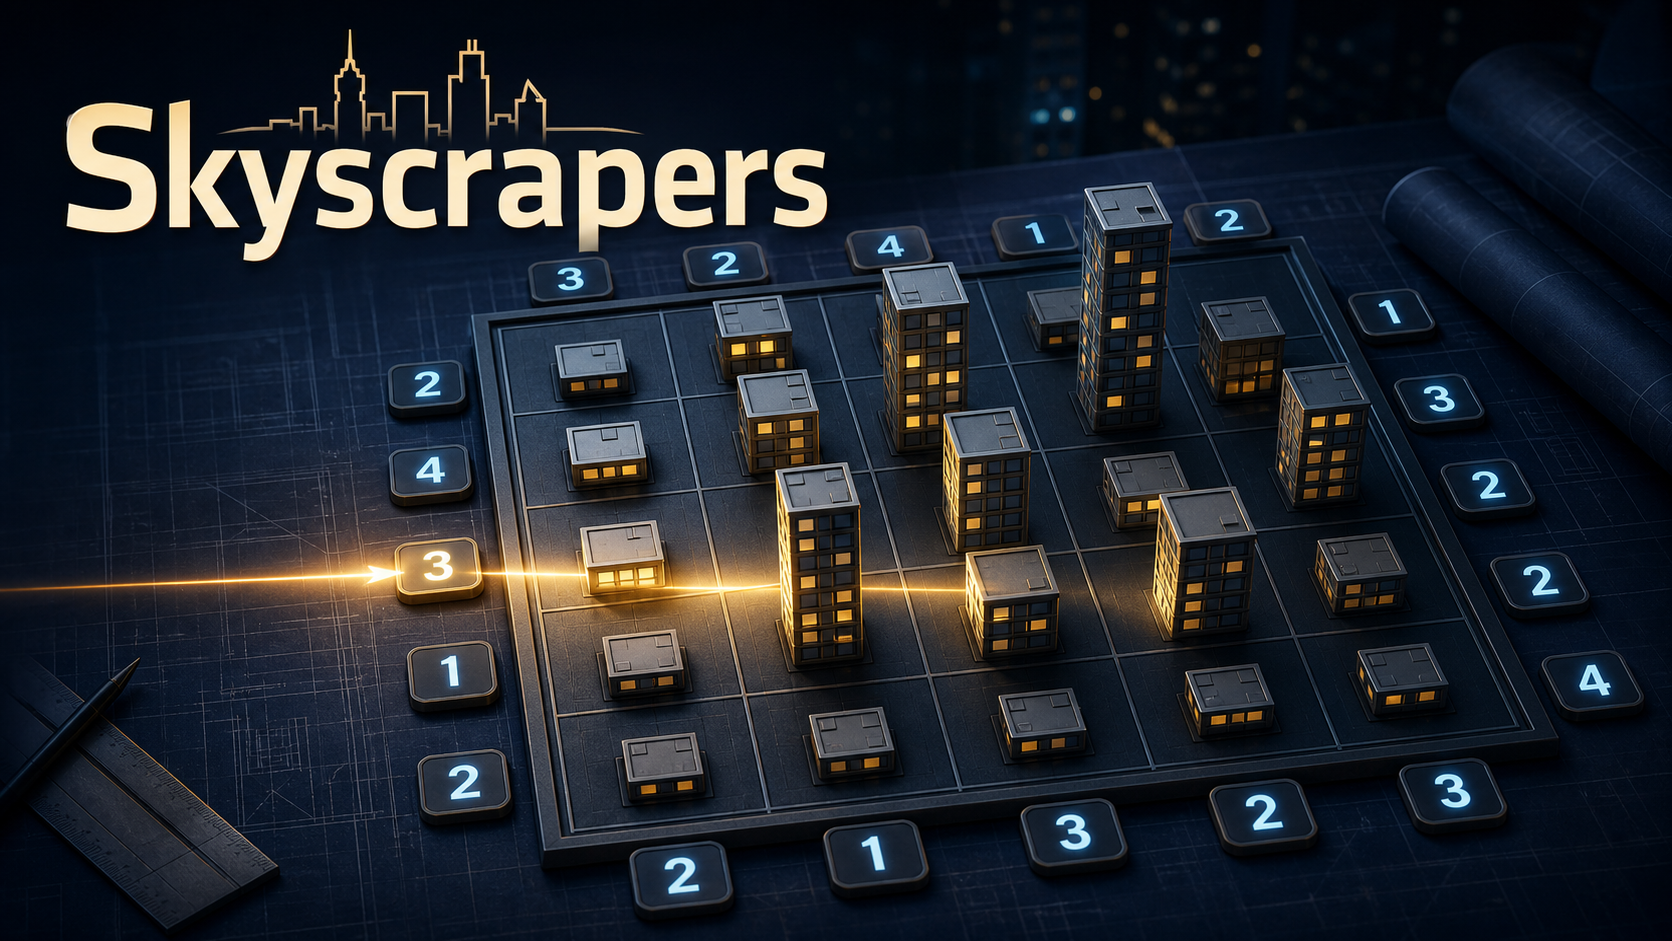
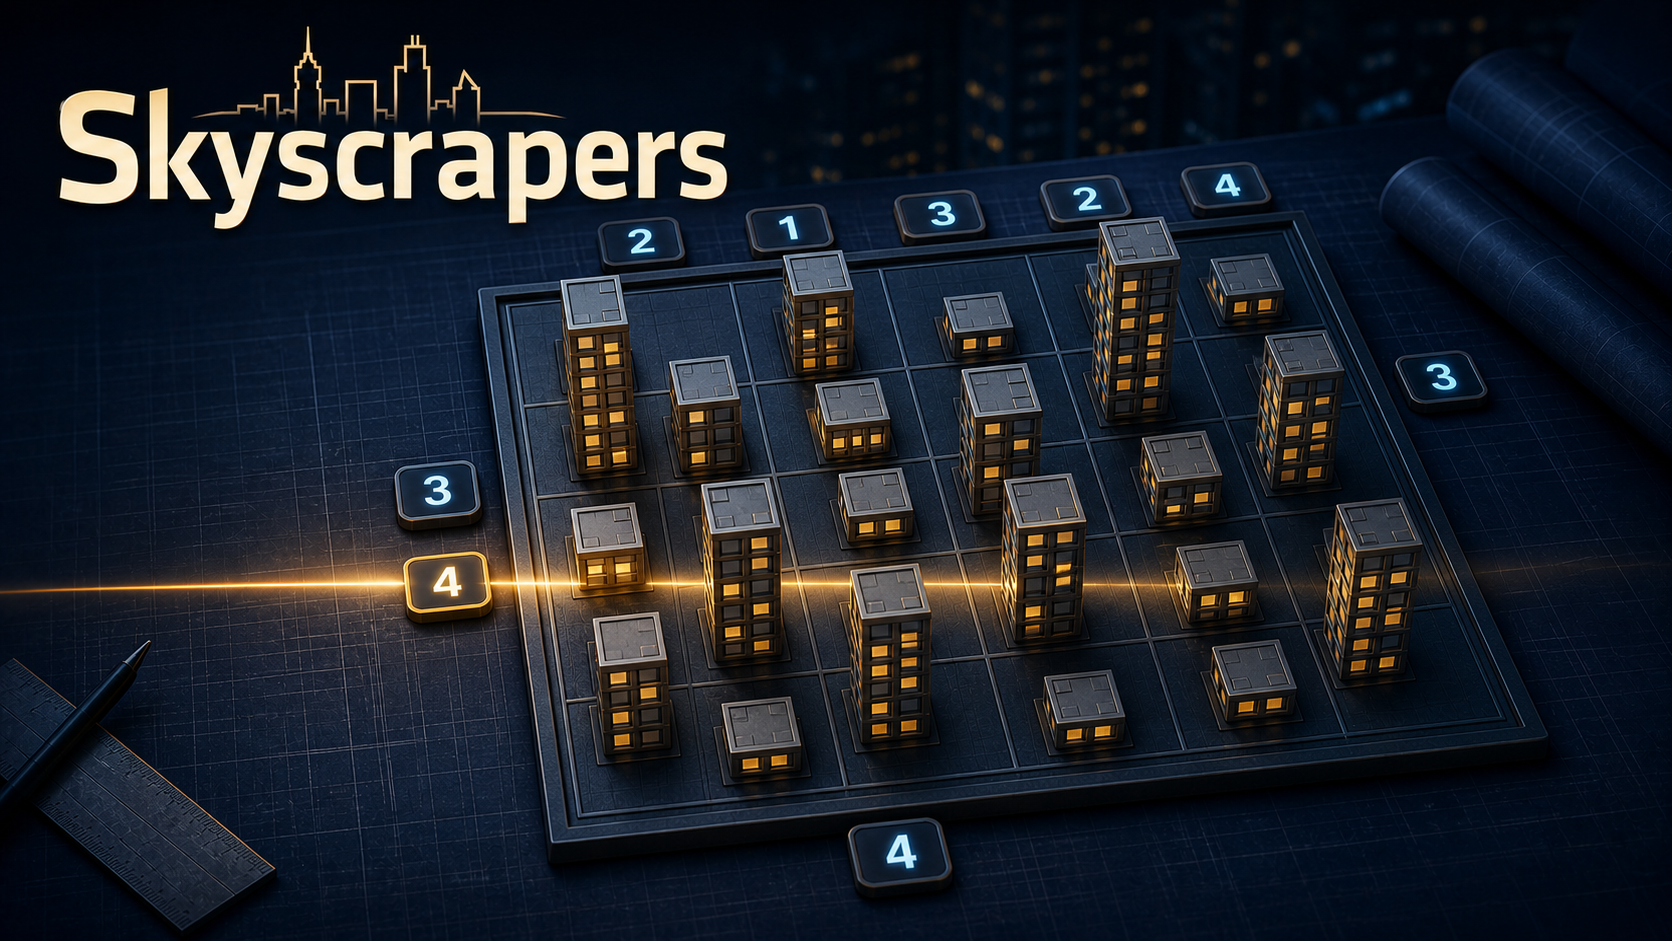
Replace the Skyscrapers key art
Owner supplied a second version. Same spec: 1200x675, cwebp -q 82, 88KB,
full-res original replacing the archived one in _sources.

⚠ This one DOES bump the shared .webp?v version, 3 to 4, which the last
piece deliberately did not. That string exists precisely for this case:
without it anyone holding the previous skyscrapers.webp keeps seeing the
old art at the unchanged URL. The cost is that all 31 pieces share the one
string, so they all re-fetch — unavoidable, and the right trade against
serving stale art.

diff --git a/assets/main.js b/assets/main.js
@@ -1299,7 +1299,7 @@ function renderHomeHero() {
       prev.removeAttribute("data-slug");
       prev.classList.add("card__preview--art");
       prev.style.background =
-        '#07070b url("/assets/featured/' + t.slug + '.webp?v=3") center / cover no-repeat';
+        '#07070b url("/assets/featured/' + t.slug + '.webp?v=4") center / cover no-repeat';
       // the art carries the toy's own logo, so the heading would just repeat it:
       // keep it for screen readers only and let the panel re-space itself
       sec.classList.add("home-featured--art");

diff --git a/all-toys/audio/index.html b/all-toys/audio/index.html
@@ -295,7 +295,7 @@
       </div>
     </footer>
 
-    <script src="../../assets/main.js?v=110" defer></script>
+    <script src="../../assets/main.js?v=111" defer></script>
     <script src="../../assets/theme.js?v=8" defer></script>
     <script src="../../assets/tickets.js?v=24" defer></script>
     <script src="../../assets/prizes.js?v=1" defer></script>

diff --git a/all-toys/game/index.html b/all-toys/game/index.html
@@ -295,7 +295,7 @@
       </div>
     </footer>
 
-    <script src="../../assets/main.js?v=110" defer></script>
+    <script src="../../assets/main.js?v=111" defer></script>
     <script src="../../assets/theme.js?v=8" defer></script>
     <script src="../../assets/tickets.js?v=24" defer></script>
     <script src="../../assets/prizes.js?v=1" defer></script>

diff --git a/all-toys/simulation/index.html b/all-toys/simulation/index.html
@@ -295,7 +295,7 @@
       </div>
     </footer>
 
-    <script src="../../assets/main.js?v=110" defer></script>
+    <script src="../../assets/main.js?v=111" defer></script>
     <script src="../../assets/theme.js?v=8" defer></script>
     <script src="../../assets/tickets.js?v=24" defer></script>
     <script src="../../assets/prizes.js?v=1" defer></script>

diff --git a/all-toys/utility/index.html b/all-toys/utility/index.html
@@ -295,7 +295,7 @@
       </div>
     </footer>
 
-    <script src="../../assets/main.js?v=110" defer></script>
+    <script src="../../assets/main.js?v=111" defer></script>
     <script src="../../assets/theme.js?v=8" defer></script>
     <script src="../../assets/tickets.js?v=24" defer></script>
     <script src="../../assets/prizes.js?v=1" defer></script>

diff --git a/all-toys/visual/index.html b/all-toys/visual/index.html
@@ -295,7 +295,7 @@
       </div>
     </footer>
 
-    <script src="../../assets/main.js?v=110" defer></script>
+    <script src="../../assets/main.js?v=111" defer></script>
     <script src="../../assets/theme.js?v=8" defer></script>
     <script src="../../assets/tickets.js?v=24" defer></script>
     <script src="../../assets/prizes.js?v=1" defer></script>

diff --git a/all-toys/wellness/index.html b/all-toys/wellness/index.html
@@ -295,7 +295,7 @@
       </div>
     </footer>
 
-    <script src="../../assets/main.js?v=110" defer></script>
+    <script src="../../assets/main.js?v=111" defer></script>
     <script src="../../assets/theme.js?v=8" defer></script>
     <script src="../../assets/tickets.js?v=24" defer></script>
     <script src="../../assets/prizes.js?v=1" defer></script>

diff --git a/all-toys/index.html b/all-toys/index.html
@@ -295,7 +295,7 @@
       </div>
     </footer>
 
-    <script src="../assets/main.js?v=110" defer></script>
+    <script src="../assets/main.js?v=111" defer></script>
     <script src="../assets/theme.js?v=8" defer></script>
     <script src="../assets/tickets.js?v=24" defer></script>
     <script src="../assets/prizes.js?v=1" defer></script>

diff --git a/index.html b/index.html
@@ -289,7 +289,7 @@
       </div>
     </footer>
 
-    <script src="assets/main.js?v=110" defer></script>
+    <script src="assets/main.js?v=111" defer></script>
     <script src="assets/theme.js?v=8" defer></script>
     <script src="assets/tickets.js?v=24" defer></script>
     <script src="assets/prizes.js?v=1" defer></script>
